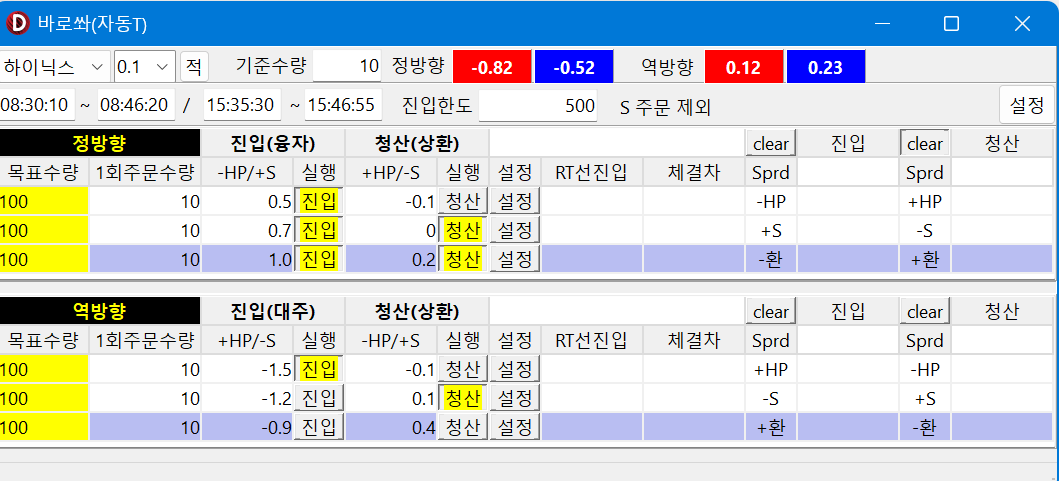
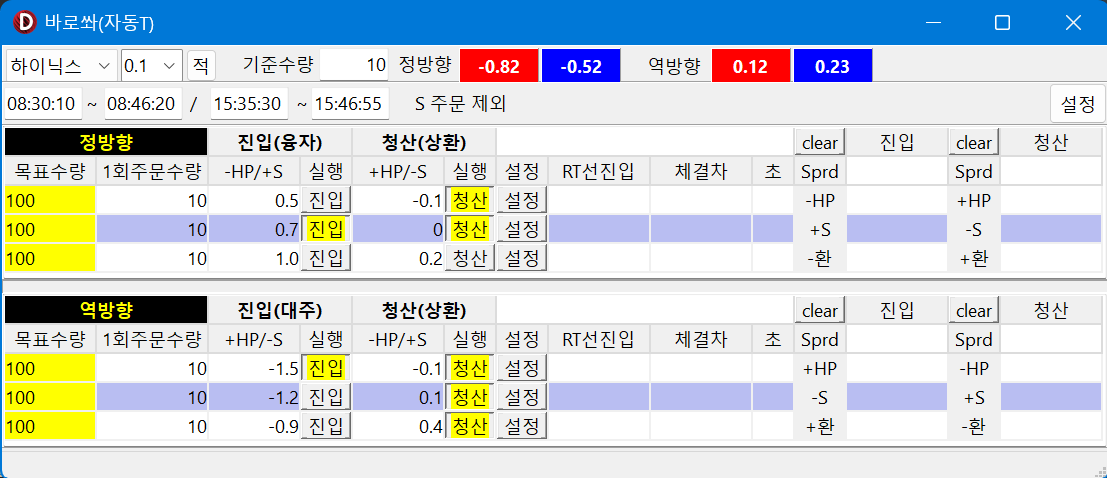
docs(auto-t): 판정·실행·RT선진입·체결차 채움 + 화면 갱신(진입한도 삭제·전환딜레이 추가)
사용자 문답(2026-08-24)으로 [OPEN] 대부분 확정:
- 판정: 정방향 진입 en>기준·청산 ex<기준, 역방향 진입 ex<기준·청산 en>기준(액션·부호 표).
- 실행: 조건 충족 시 HL·LS 동시 taker, 양쪽 체결 확인 후 다음 발주, 한쪽 미/일부체결→정지+알람.
- RT선진입: 진입+/청산−, 진입 RT+1회≤목표·청산 RT≥1회, 목표 도달 후에도 계속 시도.
- 체결차 = LS잔고+HL잔고(매도 −), ≠0→정지+알람(수동 처리), Clear로 0.
- 화면: 진입한도 삭제, 전환딜레이(초) 추가(세트설정 + 메인 '초' 컬럼). 목업 4장 갱신 반영.
- 남은 [확인]: 컬럼↔en/ex 대응, 자동T 양쪽 taker의 호가 방향(§6.1-2는 maker 기준).

diff --git a/DESIGN-auto-t.md b/DESIGN-auto-t.md
@@ -1,49 +1,81 @@
 # DESIGN-auto-t.md — 자동T 전략 (바로쏴, HL–주식 동시 taker)
 
 > **상태:** 작성 중(초안). `DESIGN.md §6.2`의 자동T 부분을 떼어 상세화한다. **계약의 일부.**
-> **원본:** 화면 목업 `docs/STG_1/`(`layout_1.png`·`layout_run.png`·`전략별 설정.png`·`화면내 공통설정.png`) + 사용자 구술(2026-08-24). 빈 `바로쏴(자동T).txt`는 자리표시.
-> **화면 초안 코드:** `kp_arb/order_panel.py`(자동T/자동M 겸용, 코어 클라이언트).
+> **원본:** 화면 목업 `docs/STG_1/`(`layout_1.png`·`layout_run.png`·`전략별 설정.png`·`화면내 공통설정.png`, 갱신 2026-08-24) + 사용자 구술·문답(2026-08-24, `바로쏴(자동T).txt`).
+> **화면 초안 코드:** `kp_arb/order_panel.py`(자동T/자동M 겸용, 코어 클라이언트). **아직 발주 로직 미구현.**
 
 ## 1. 개요
 - 자동T = **HL perp ↔ 국내 주식(S)** 한 쌍, **양쪽 동시 taker**(반드시 체결). maker 방식 자동M(HL–주식선물)과 별개 화면.
-- 주로 **프리장·애프터장**에서 사용(장중은 자동M 위주) — 운영시간 2구간(§5).
+- 주로 **프리장·애프터장**에서 사용(장중은 자동M 위주).
 - 한 종목에 **정방향·역방향을 동시 모니터하되 배타적 진입**(고/저평가에 따라 한쪽만).
 
 ## 2. 방향 정의 (사용자 확정 2026-08-24)
-| 방향 | 조건 | 국내(LS) | HL |
+| 방향 | 시장 상태 | 진입 액션 | 청산 액션 |
 |---|---|---|---|
-| **정방향** | LS 저평가 + HL 고평가 | 매수(**융자**) | 숏(−HP) |
-| **역방향** | LS 고평가 + HL 저평가 | 매도(**대주** = 대차 공매도) | 롱(+HP) |
+| **정방향** | HL 고평가 / LS 저평가 | `-HP/+S` : HL 매도 + LS 매수(**융자**) | `+HP/-S` : HL 매수 + LS 매도 |
+| **역방향** | LS 고평가 / HL 저평가 | `+HP/-S` : HL 매수 + LS 매도(**대주**) | `-HP/+S` : HL 매도 + LS 매수 |
 
-- **대주(공매도) 허용:** 원래 국내 spot 공매도 미사용이 계약이었으나, **시장 기회가 나오면 대차를 통해 공매도할 수 있어야 한다**(사용자 확정). 그래서 설정창에 주문유형 옵션을 둔다. → `DESIGN §3` 공매도 불변식의 **자동T 예외**로 명문화.
+- **대주(대차 공매도) 허용**(시장 기회 시, 설정창 주문유형 옵션) — `DESIGN §3` 공매도 불변식의 자동T 예외.
 
-## 3. 화면 구성 (목업 STG_1 대조)
+## 3. 판정 (신호 = 발주 수량 est-price 스프레드, `DESIGN §6.1-2`)
+각 세트는 **1회주문수량으로 est-price**를 구해 실시간 진입/청산 스프레드를 계산한다.
+
+| 신호(컬럼) | 스프레드 | 발주 조건 | 액션 |
+|---|---|---|---|
+| 정방향 진입 (`-HP/+S`) | en | 실시간 **> 진입 기준값** | HL 매도 + LS 매수 |
+| 정방향 청산 (`+HP/-S`) | ex | 실시간 **< 청산 기준값** | HL 매수 + LS 매도 |
+| 역방향 진입 (`+HP/-S`) | ex | 실시간 **< 진입 기준값** | HL 매수 + LS 매도 |
+| 역방향 청산 (`-HP/+S`) | en | 실시간 **> 청산 기준값** | HL 매도 + LS 매수 |
+
+- 정방향: 스프레드가 **클 때(HL 고평가) 진입**, 작아지면 청산. 역방향: 반대로 **LS 고평가일 때 진입**(기준값은 음수 예: −1.5/−1.2/−0.9), 줄어들면 청산.
+- **[확인 필요 ①] 컬럼↔스프레드 대응**: `-HP/+S`=en(진입), `+HP/-S`=ex(청산)로 해석. 맞는지.
+- **[확인 필요 ②] taker 호가 방향**: §6.1-2 est 스프레드는 **자동M(국내 maker) 기준(양쪽 bid/양쪽 ask)**으로 구현돼 있다. 자동T는 **양쪽 taker**라 실제 체결 호가가 다르다(정방향 진입 = LS **매수→ask**, HL **매도→bid**). 자동T 신호도 §6.1-2 그대로 쓸지, taker 호가(사는 쪽 ask·파는 쪽 bid)로 별도 계산할지 확인 필요.
+
+## 4. 실행 (동시 taker)
+- 발주 조건 충족 → **HL·LS에 동시 주문**(둘 다 taker: HP ±%·LS ±tick 여유로 반드시 체결).
+- **양쪽 모두 체결 확인 후** 다음 주문 발주. 세트 간 **전환딜레이(초)** 대기.
+- 어느 한쪽이 **미체결·일부체결** → **시스템 정지 + 사용자 알람**(재주문·추가주문 안 함).
+
+## 5. RT선진입 · 목표수량
+- 진입 체결 → **RT선진입 증가**, 청산 체결 → **감소**(LS 기준, 역방향도 +로 표기).
+- **진입 가능 조건:** RT선진입 + 1회주문수량 ≤ **목표수량**(초과 불가).
+- **청산 가능 조건:** RT선진입 ≥ **1회주문수량**.
+- **목표수량 도달 후에도 계속 계산·주문 시도**한다 — 청산으로 RT선진입이 줄어 다시 진입 여지가 생기므로.
+
+## 6. 체결차
+- **체결차 = 주식(LS) 잔고 + HL 잔고** (매도는 − 부호). 완전 헤지면 0.
+- **≠0(양쪽 체결 불일치) → 시스템 정지 + 알람.** 재/추가 주문은 하지 않고 **사용자가 수동 처리**. 세트 설정의 "체결차 Clear"로 수동 0 초기화.
+
+## 7. 화면 구성 (목업 STG_1, 갱신 2026-08-24)
 - **상단:** 종목 콤보 · HL 호가단위 · `적` · **기준수량** · 정방향[진입 est / 청산 est] · 역방향[진입 est / 청산 est]
-- **2번째 줄:** 주문가능시간 2구간 · 진입한도 · `S 제외여부` · `설정`(화면내 공통설정 창)
-- **정방향 / 역방향** 각 **진입 / 청산 3세트**, 세트별 컬럼: 목표수량 · 1회주문수량 · 기준값 · **실행 버튼(진입/청산)**(실행 중 노랑) · `설정`(세트 설정 창) · RT선진입 · 체결차 · Sprd
-- Sprd 구성 표시(우측): 정방향 −HP / +S / −환, 역방향 +HP / −S / +환 — [OPEN] 정확한 서식·갱신.
+- **2번째 줄:** 주문가능시간 2구간 · `S 제외여부` · `설정`(공통설정 창) — **진입한도 삭제됨(2026-08-24)**
+- **정방향 / 역방향** 각 **진입 / 청산 3세트**, 세트별 컬럼: 목표수량 · 1회주문수량 · 기준값 · 실행 버튼(진입/청산) · `설정` · RT선진입 · 체결차 · **초**(전환딜레이) · Sprd(−HP/+S/−환 등)
+- **세트 설정 창:** 목표수량 · 1회주문수량 · **전환딜레이(초)** · 진입 기준값 · 청산 기준값 · ☐RT 진입수량 수동 입력 · ☐체결차 Clear
+- **공통설정 창(바로쏴 설정):** 주문가능시간 2구간 · S 제외여부 · LS(tick)/HP(%) 매수·매도 · 주문유형(정/역 진입·청산)
 
-## 4. 용어 사전 (사용자 구술 2026-08-24)
+## 8. 용어 사전 (사용자 구술 2026-08-24)
 | 용어 | 뜻 |
 |---|---|
-| **기준수량** | 상단 정/역방향 **모니터 수치(진입/청산 est 스프레드) 계산용 주문수량**. §6.1-2 est-price의 그 수량과 동일 |
-| **RT선진입** | 목표진입량 중 **실제 체결로 진입된 수량**(LS 기준, 역방향이어도 +로 표기). 세트설정 "RT 진입수량 수동 입력"으로 사람이 덮어쓸 수 있음 |
-| **체결차** | HL과 LS의 **체결 수량 차이**. "체결차 Clear"로 수동 0 초기화 |
-| **진입한도** | 한 화면에서 진입 가능한 **최대 잔고수량(LS 기준)** — 금액 아님, 수량 |
-| **HP(%)** | taker 주문가를 **현재가 기준 ±몇 %**로 잡을지(사용자 입력). 이번 전략은 전부 taker라 반드시 체결돼야 하므로 넉넉히(예 15%). LS는 ±tick |
-| **S 제외** | 국내(S) 주문을 빼고 **HL만** 발주하는 모드 — [OPEN] 확인 |
+| **기준수량** | 상단 정/역방향 **모니터 수치(진입/청산 est 스프레드) 계산용 주문수량**. §6.1-2 est-price의 그 수량 |
+| **RT선진입** | 목표진입량 중 **실제 체결로 진입된 수량**(LS 기준, 역방향도 +). "RT 진입수량 수동 입력"으로 덮어쓰기 가능 |
+| **체결차** | LS 잔고 + HL 잔고(매도 −). 0=헤지 정합, ≠0=불일치 → 정지 |
+| **전환딜레이(초)** | 한 주문 체결 후 다음 주문까지 대기 시간(세트별) |
+| **HP(%)** | taker 주문가를 현재가 기준 ±몇 %로(반드시 체결용, 예 15%). LS는 ±tick |
+| **S 제외** | 국내(S) 주문 빼고 **HL만 발주** |
 
-## 5. 파라미터 · 설정
+## 9. 파라미터 · 설정
 - **주문유형(LS 신용거래 코드)** — 일반 `00 보통`. 화면 공통설정에서 선택:
   `003 유통/자기융자신규` · `005 유통대주신규` · `007 자기대주신규` ·
   `101 유통융자상환` · `103 자기융자상환` · `105 유통대주상환` · `107 자기대주상환` · `180 예탁담보대출상환(신용)`
-  - 정방향 진입=융자신규 / 청산=융자상환, 역방향 진입=대주신규 / 청산=대주상환.
-- **HP(%)·LS(tick) 여유:** 매수·매도 각각. taker 주문가 = 현재가 ± 이 폭(반드시 체결). 기본값 목업 = LS 10틱 / HP 15%.
-- **진입한도:** 화면당 최대 진입 잔고수량(LS 기준).
-- **주문가능시간 2구간:** 자동T가 자동 발주하는 두 시간대(프리장·애프터장 추정) — [OPEN] 각 구간 확정.
+  - 정방향 진입=유통/자기융자신규 / 청산=유통융자상환, 역방향 진입=자기대주신규 / 청산=유통대주상환.
+- **HP(%)·LS(tick) 여유:** 매수·매도 각각(목업 HP 15% / LS 10틱). taker 주문가 = 현재가 ± 이 폭.
+- **전환딜레이(초):** 세트별, 다음 주문까지 대기(목업 30).
+- **기준수량:** 상단 모니터 est 스프레드용.
 
-## 6. 판정 · 실행  [OPEN — 사용자 설명 예정]
-- 진입/청산 스프레드는 `DESIGN §6.1-2` **est-price 기반**(기준수량). 정/역방향 기준값과의 **비교 부등호·부호** = [OPEN].
-- 동시 taker **발주 순서**, 한쪽 **거부·부분체결** 처리(§6.2-5: 거부 시 중단+알림) = [OPEN 상세].
-- **RT선진입 누적**·목표수량 도달 시 동작(완료 표시 등) = [OPEN].
-- **체결차** 발생 시 대응(수동 Clear 외 자동 보정 여부) = [OPEN].
+## 10. 주문가능시간 (2구간, 목업값)
+- 프리장 `08:30:10 ~ 08:46:20` / 마감 `15:35:30 ~ 15:46:55`. 자동 발주는 이 두 구간에서만. (목업 기본값 — 사용자 조정 가능.)
+
+## [OPEN]
+- §3 컬럼↔en/ex 대응 확인.
+- 정/역방향 **동시 진입 방지**(배타) 구현 상세.
+- 주문가능시간 2구간 값 확정(현재 목업값 사용).
